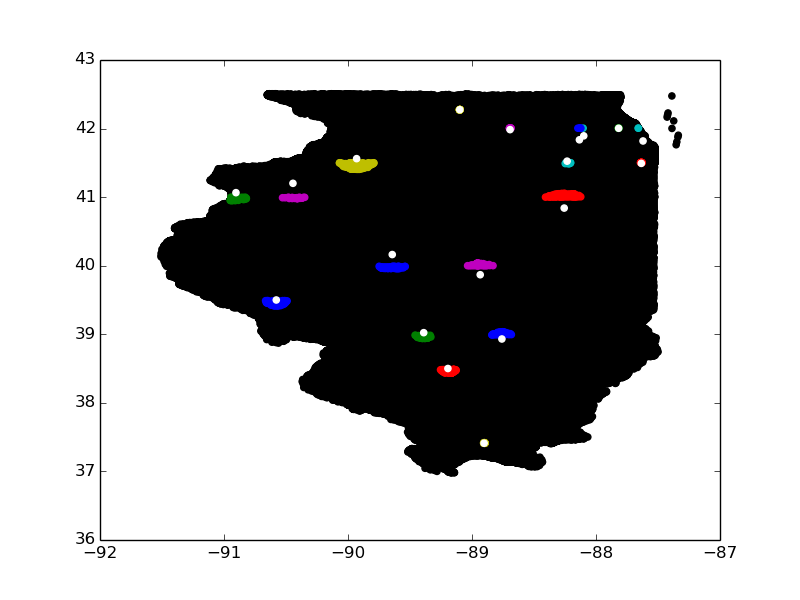
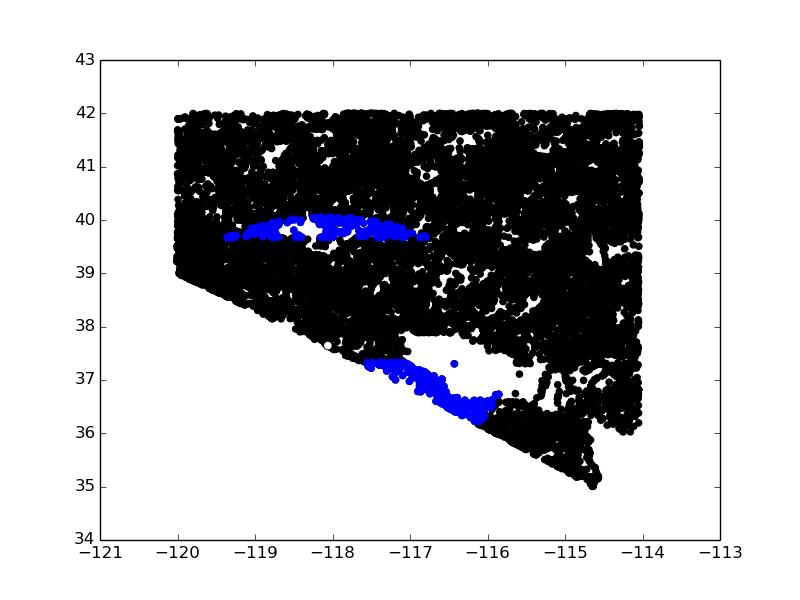
sdf

diff --git a/grid_search.py b/grid_search.py
@@ -29,15 +29,10 @@ centroid_l = [[5,+39.810985,-090.925895,6],
 [351295,+41.284644,-088.114612,114],
 [365115,+40.629956,-089.275667,12]]
 '''
-<<<<<<< HEAD
-filename= "IL.csv"
-number = 19
-global_epsilon = 1000
-=======
-filename= "WY.csv"
+
+filename= "NV.csv"
 number = 1
-global_epsilon = 'WY10000'
->>>>>>> e37c6e4a9d2ccbfbee1cf33b45a4f713ae5a1eec
+global_epsilon = 1000
 
 centroid_l = find_random_centroids(filename, number)
 
@@ -45,16 +40,10 @@ def euclidean_norm(centroid, block):
 	distance = math.sqrt((centroid[1]-block[1])**2+(centroid[2]-block[2])**2)
 	return distance
 
-def neighborhood_to_search(centroid, tol):
+def neighborhood_to_search(centroid, tol, dim, lat, lon):
 	i_0, j_0 = hash_map_index(dim, lat, lon, centroid)
-<<<<<<< HEAD
 	#x_size = (lon[1] - lon[0]) / dim[0]
 	#y_size = (lat[1] - lat[0]) / dim[1]
-=======
-
-	x_size = (lon[1] - lon[0]) / dim[0]
-	y_size = (lat[1] - lat[0]) / dim[1]
->>>>>>> e37c6e4a9d2ccbfbee1cf33b45a4f713ae5a1eec
 
 	#print("\n actual location", centroid[1], centroid[2])
 	#print("dim", dim)
@@ -64,14 +53,11 @@ def neighborhood_to_search(centroid, tol):
 	#print("lon", lon)
 	#print("centroid i_0, j_0", i_0, j_0)
 	#print("j_0", j_0)
-	return [max(i_0-tol, 0), min(i_0+tol, len(Grid)-1)], [max(j_0-tol, 0), min(j_0+tol, len(Grid[0])-1)]
-<<<<<<< HEAD
+	return [max(i_0-tol, 0), min(i_0+tol, dim[1]-1)], [max(j_0-tol, 0), min(j_0+tol, dim[0]-1)]
 
-def searching_neighborhood(priority_district, tol, Grid):
-=======
-def searching_neighborhood(priority_district, tol):
->>>>>>> e37c6e4a9d2ccbfbee1cf33b45a4f713ae5a1eec
-	x_range, y_range = neighborhood_to_search(priority_district.centroid, tol)
+
+def searching_neighborhood(priority_district, tol, Grid, dim, lat, lon):
+	x_range, y_range = neighborhood_to_search(priority_district.centroid, tol, dim, lat, lon)
 	#print("x range", x_range)
 	#print("y range", y_range)
 	dist_list = []
@@ -85,22 +71,21 @@ def searching_neighborhood(priority_district, tol):
 
 def searching_all(filename):
 	Grid, data, dim, lat, lon = build_grid(filename, number)
+	print(len(Grid[0]), dim[0])
+	print(len(Grid), dim[1])
 	Districts = dc.create_districts(centroid_l, 1)
 	unassigned_blocks = data.shape[0]
-<<<<<<< HEAD
 	#print(unassigned_blocks)
-=======
-	print(unassigned_blocks, "blocks")
->>>>>>> e37c6e4a9d2ccbfbee1cf33b45a4f713ae5a1eec
+
 	while unassigned_blocks != 0:
 		tol = 1
 		priority_district = dc.return_low_pop(Districts)
-		dist_list = searching_neighborhood(priority_district, tol, Grid)
+		dist_list = searching_neighborhood(priority_district, tol, Grid, dim, lat, lon)
 		
 		while len(dist_list) == 0:
 			tol += 1
 			print("changed tolerance.")
-			dist_list = searching_neighborhood(priority_district, tol)
+			dist_list = searching_neighborhood(priority_district, tol, dim, lat, lon)
 			print(len(dist_list), "distlist length")
 
 		#print(len(dist_list))
@@ -112,13 +97,14 @@ def searching_all(filename):
 		Grid[int(add_block[5])][int(add_block[6])].remove(add_block[1:-2])
 		unassigned_blocks -= 1
 
-		if unassigned_blocks == 57000:
+		if unassigned_blocks == (data.shape[0] - global_epsilon):
 			break
-		print(unassigned_blocks)
+		#print(unassigned_blocks)
 		#print("population of priority district", priority_district.population)
 		#print("which district", priority_district.id)
+	graph(Districts, data)
 
-def graph(Districts):
+def graph(Districts, data):
 	plt.scatter(data[:, 2], data[:, 1], color='k')
 
 	colors = itertools.cycle(["b", "g", "r", "c", "m", "y"])
@@ -163,4 +149,4 @@ def graph(Districts):
 
 
 searching_all(filename)
-graph(Districts)
+#graph(Districts)

diff --git a/grid.py b/grid.py
@@ -43,13 +43,9 @@ def hash_map_index(dim, lat, lon, block):
 	#print("j", j)
 	return i, j
 	
-<<<<<<< HEAD
+
 def build_grid(filename, number):
 	dim, lat, lon, data = create_grid(filename, number)
-=======
-def build_grid(filename):
-	dim, lat, lon, data = create_grid(filename, 1)
->>>>>>> e37c6e4a9d2ccbfbee1cf33b45a4f713ae5a1eec
 
 	Master_Grid = []
 	for c in range(dim[1]):
